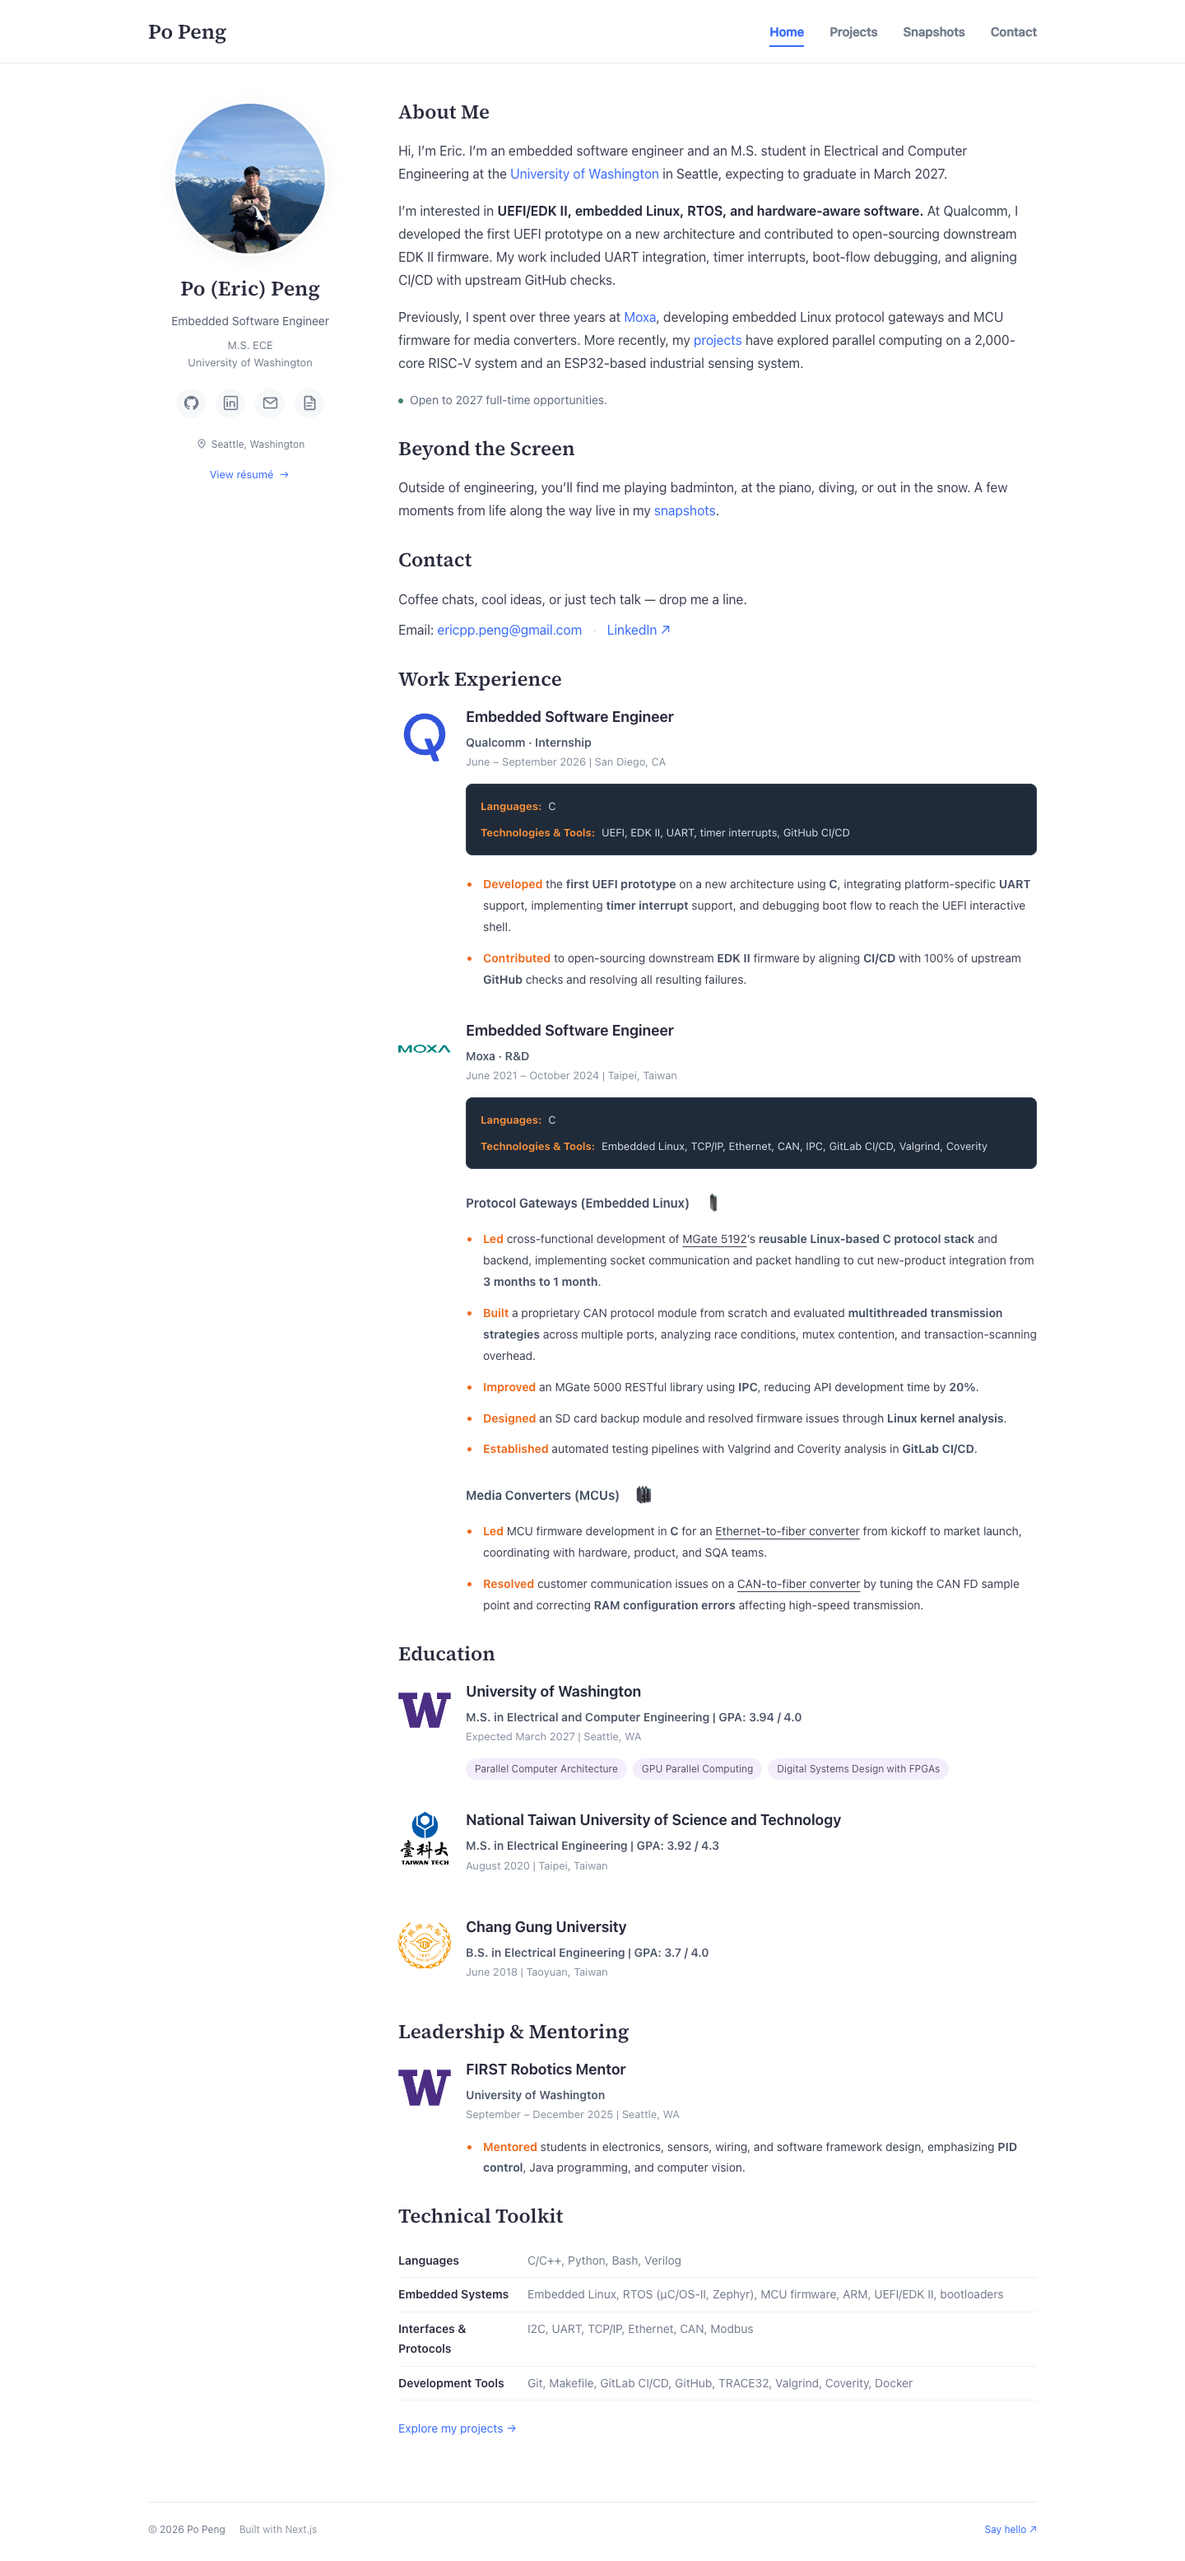
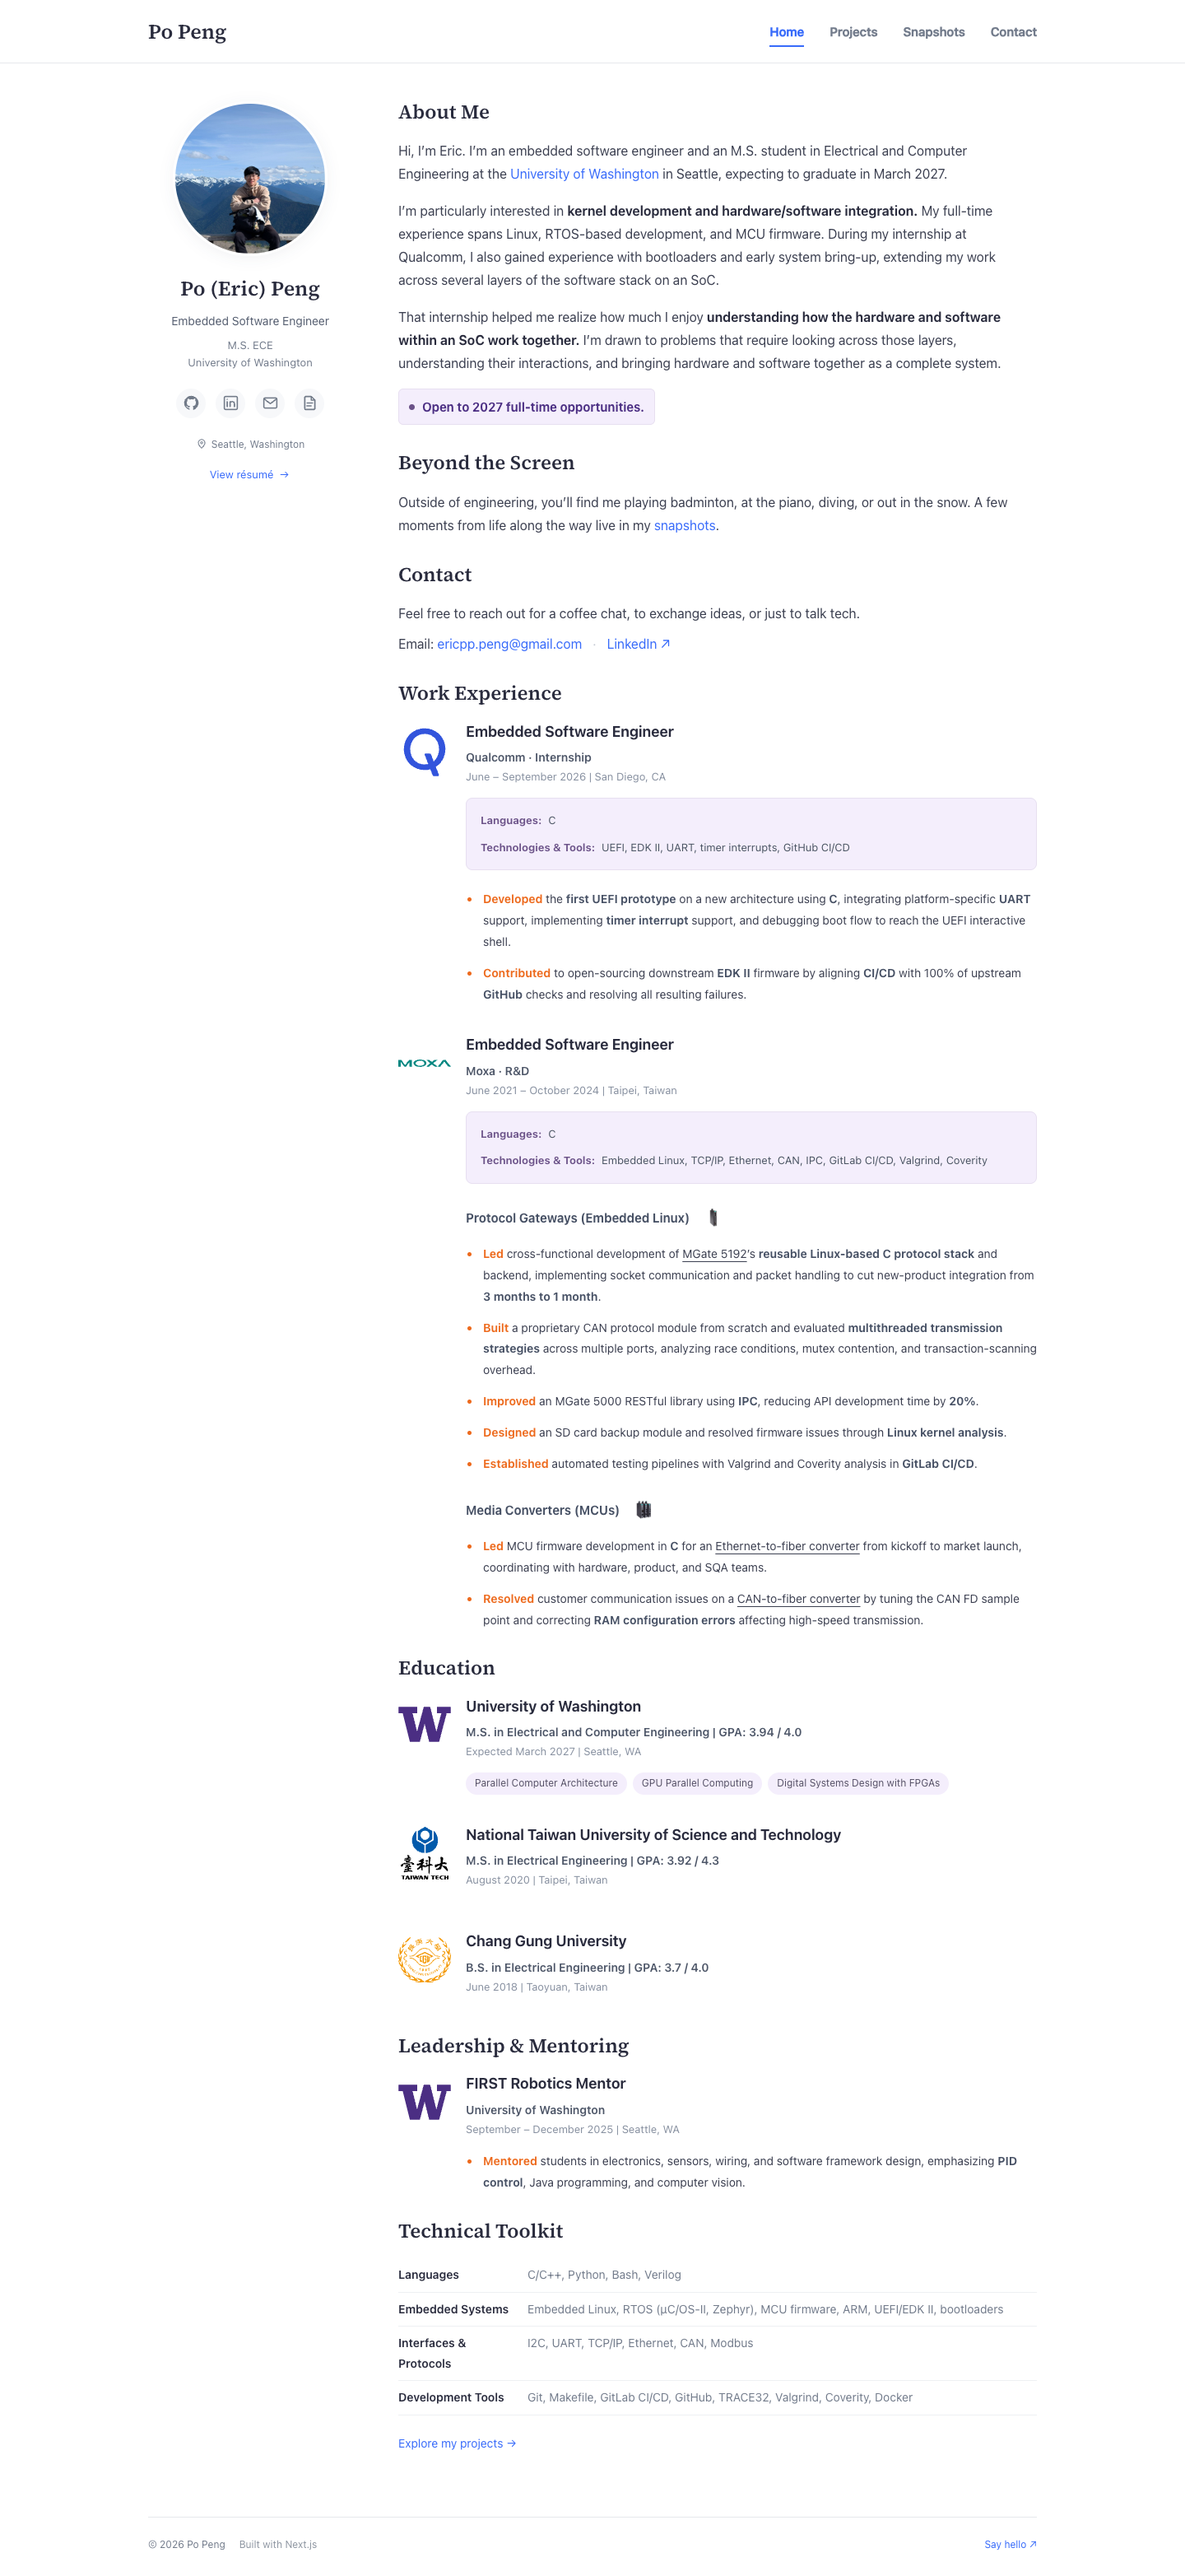
Unify snapshot thumbnails and emphasize full-time availability

diff --git a/src/pages/snapshots.tsx b/src/pages/snapshots.tsx
@@ -1,7 +1,36 @@
+import Image from "next/image";
+import { useEffect, useRef, useState } from "react";
 import Layout from "../components/Layout";
 import { snapshots } from "../data/profile";
 
 export default function Snapshots() {
+  const [selected, setSelected] = useState<(typeof snapshots)[number] | null>(
+    null,
+  );
+  const dialogRef = useRef<HTMLDialogElement>(null);
+  const playerRef = useRef<HTMLVideoElement>(null);
+
+  function closeVideo() {
+    playerRef.current?.pause();
+    setSelected(null);
+  }
+
+  useEffect(() => {
+    const dialog = dialogRef.current;
+    if (!selected) {
+      dialog?.close();
+      return;
+    }
+    dialog?.showModal();
+    const player = playerRef.current;
+    const previousOverflow = document.body.style.overflow;
+    document.body.style.overflow = "hidden";
+    return () => {
+      player?.pause();
+      document.body.style.overflow = previousOverflow;
+    };
+  }, [selected]);
+
   return (
     <Layout title="Snapshots">
       <section className="page-intro">
@@ -11,16 +40,30 @@ export default function Snapshots() {
       <div className="snapshot-grid">
         {snapshots.map((item) => (
           <figure className="snapshot" key={item.title}>
-            <video
-              controls
-              playsInline
-              preload="none"
-              poster={item.poster}
-              aria-label={item.description}
+            <button
+              className="snapshot-preview"
+              type="button"
+              aria-label={`Play ${item.title} video`}
+              onClick={() => setSelected(item)}
             >
-              <source src={item.src} type="video/mp4" />
-              <a href={item.src}>Download video</a>
-            </video>
+              <Image
+                className="snapshot-poster"
+                src={item.poster}
+                alt=""
+                width={960}
+                height={960}
+              />
+              <span className="project-play" aria-hidden="true">
+                <svg
+                  width="21"
+                  height="21"
+                  viewBox="0 0 24 24"
+                  fill="currentColor"
+                >
+                  <path d="M8 5v14l11-7Z" />
+                </svg>
+              </span>
+            </button>
             <figcaption>
               <h3>{item.title}</h3>
               <p>{item.description}</p>
@@ -28,6 +71,45 @@ export default function Snapshots() {
           </figure>
         ))}
       </div>
+      <dialog
+        ref={dialogRef}
+        className="snapshot-dialog"
+        aria-labelledby="snapshot-video-title"
+        onCancel={closeVideo}
+        onClose={closeVideo}
+        onClick={(event) => {
+          if (event.target === event.currentTarget) closeVideo();
+        }}
+      >
+        {selected && (
+          <div className="snapshot-viewer">
+            <button
+              className="snapshot-close"
+              type="button"
+              aria-label="Close video"
+              onClick={closeVideo}
+            >
+              <span aria-hidden="true">×</span>
+            </button>
+            <video
+              key={selected.src}
+              ref={playerRef}
+              controls
+              autoPlay
+              playsInline
+              poster={selected.poster}
+              aria-label={selected.description}
+            >
+              <source src={selected.src} type="video/mp4" />
+              <a href={selected.src}>Download video</a>
+            </video>
+            <div className="snapshot-caption">
+              <h3 id="snapshot-video-title">{selected.title}</h3>
+              <p>{selected.description}</p>
+            </div>
+          </div>
+        )}
+      </dialog>
     </Layout>
   );
 }

diff --git a/src/styles.css b/src/styles.css
@@ -287,17 +287,24 @@ nav {
 }
 .availability {
   display: flex;
-  gap: 8px;
+  gap: 9px;
   align-items: center;
-  font-size: 14px;
-  color: #606c7c;
-  padding-top: 2px;
+  width: fit-content;
+  max-width: 100%;
+  font-size: 15px;
+  font-weight: 650;
+  line-height: 1.6;
+  color: #4b2e83;
+  background: var(--lavender);
+  border: 1px solid #e7dff0;
+  border-radius: 6px;
+  padding: 9px 12px;
 }
 .availability > span {
-  width: 6px;
-  height: 6px;
+  width: 7px;
+  height: 7px;
   border-radius: 50%;
-  background: #45856d;
+  background: #6b5288;
   flex-shrink: 0;
 }
 .contact-section p {
@@ -671,13 +678,81 @@ nav {
 .snapshot {
   margin: 0;
 }
-.snapshot video {
+.snapshot-preview {
+  position: relative;
   display: block;
   width: 100%;
-  aspect-ratio: 4/3;
-  object-fit: contain;
+  aspect-ratio: 1;
+  padding: 0;
+  border: 0;
+  color: white;
+  cursor: pointer;
+  overflow: hidden;
   background: #12161c;
   border-radius: 7px;
+}
+.snapshot-poster {
+  display: block;
+  width: 100%;
+  height: 100%;
+  object-fit: cover;
+  transition: filter 0.15s;
+}
+.snapshot-preview:hover .snapshot-poster {
+  filter: brightness(0.85);
+}
+.snapshot-dialog {
+  width: min(880px, calc(100vw - 32px));
+  max-width: none;
+  max-height: 90vh;
+  padding: 0;
+  border: 0;
+  border-radius: 10px;
+  background: white;
+  color: var(--text);
+}
+.snapshot-dialog::backdrop {
+  background: #101525c9;
+}
+.snapshot-viewer {
+  position: relative;
+}
+.snapshot-dialog video {
+  display: block;
+  width: 100%;
+  height: min(65vh, 600px);
+  object-fit: contain;
+  background: #12161c;
+}
+.snapshot-close {
+  position: absolute;
+  z-index: 1;
+  top: 12px;
+  right: 12px;
+  display: grid;
+  place-items: center;
+  width: 36px;
+  height: 36px;
+  padding: 0;
+  border: 1px solid #ffffff70;
+  border-radius: 50%;
+  background: #151b25bb;
+  color: white;
+  font-size: 26px;
+  line-height: 1;
+  cursor: pointer;
+}
+.snapshot-caption {
+  padding: 14px 18px;
+}
+.snapshot-caption h3 {
+  margin: 0 0 3px;
+  font-size: 16px;
+}
+.snapshot-caption p {
+  margin: 0;
+  color: var(--muted);
+  font-size: 13px;
 }
 .snapshot figcaption {
   padding: 12px 0;

diff --git a/src/data/profile.ts b/src/data/profile.ts
@@ -241,8 +241,8 @@ export const snapshots = [
     poster: assetPath("/images/posters/badminton.jpg"),
   },
   {
-    title: "A little Chopin",
-    description: "Piano · Fantaisie-Impromptu, Op. 66",
+    title: "Piano performance",
+    description: "Fantaisie-Impromptu, Op. 66 (Chopin)",
     src: assetPath("/videos/lifestyle/20160524_piano.mp4"),
     poster: assetPath("/images/posters/piano.jpg"),
   },

diff --git a/README.md b/README.md
@@ -32,6 +32,8 @@ The build produces a self-contained static site in `out/`. There are no required
 
 The homepage retains the original “Open to 2027 full-time opportunities” statement.
 
+Snapshots uses uniform square thumbnails with a cover crop for portrait and landscape media. Opening a thumbnail plays the full, uncropped video in a native dialog with keyboard / Escape support. The piano caption retains the original “Piano performance” and “Fantaisie-Impromptu, Op. 66 (Chopin)” wording. The homepage availability statement remains below the introduction and uses a pale purple background with bold UW-purple text.
+
 Current career content follows `../resume/applications/AMD-Embedded-Firmware-Development-Engineer-Austin-92403/AMD-Embedded-Firmware-Development-Engineer-Austin-92403.typ`. The original resume source is unchanged. The public resume PDF is compiled from that file into `public/resume/Po-Eric-Peng-Resume.pdf`, and the site's resume buttons point to that local PDF. Contact email is `ericpp.peng@gmail.com`, matching the resume. Earlier project videos and lifestyle media remain available as historical content.
 
 ### Preview photo framing
